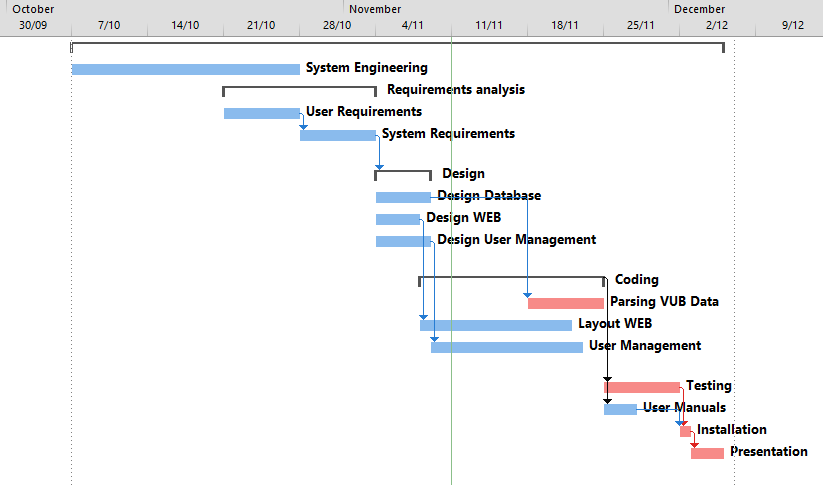
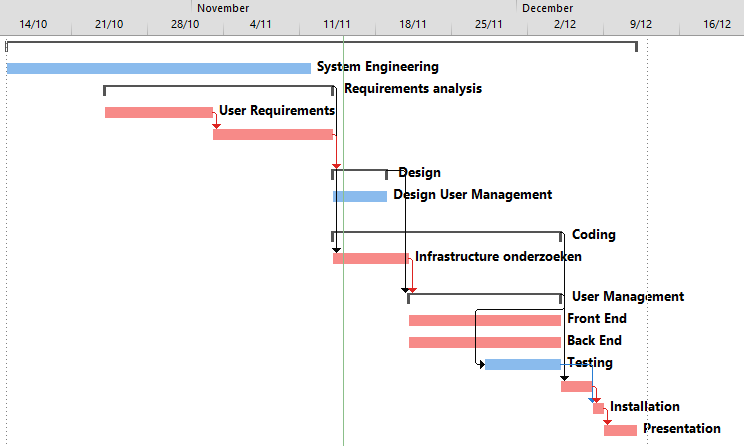
Afwerken SPMP.

Changed region(s): [[0.0, 0.0, 1.0, 0.991]]

diff --git a/SPMP/ManagerialProcess/ManagerialProcessPlans.tex b/SPMP/ManagerialProcess/ManagerialProcessPlans.tex
@@ -1,6 +1,9 @@
 \chapter{Management process}
 \section{Project start plan} \label{sec:ProjectStartPlan}
-In deze sectie bespreken we de verwachte kost van het project. Voor de kostberekening maken we gebruik van  Voor de kostberekening maken we gebruik van het COCOMO I model \cite{CocomoI}. Ondanks dat het COCOMO I model reeds verouderd is t.o.v. COCOMO II \cite{CocomoII}, verkiezen we toch COCOMO I. De reden hiervoor is dat COCOMO II afhant van veel inputparameters. Vermits we hiervoor weinig tot geen ervaring hebben, verkiezen we COCOMO I dat slechts afhangt van 2 inputparameters. Bij COCOMO I zijn de vrije parameters het project type en aantal lijnen code. Als type project moeten we kiezen tussen ``simple'', ``semidetached'' en ``embedded''. We kiezen hierin voor het type ``semidetached''. Dit weerspiegelt goed de huidige situatie van ons team. De omvang van ons team is aan de grote kant en er zijn veel onbekende factoren in dit project (zie ook \ref{sec:risicoManagementPlan}). We berekenen dan de effort $E$ uitgedrukt in persoonsmaanden (pm) als
+Voor het project management zal er gebruikt worden van Microsoft Project \cite{MicrosoftProject}. Een licentie valt gratis te verkrijgen via Microsoft Dreamspark for VUB Students \cite{DreamsparkVUB}. M.b.v. Microsoft Project zullen er Gantt charts gegenereerd worden. Voor Work Breakdown Structures zal er gebruik worden gemaaakt van WBS Chart Pro \cite{WBSChartPro}. Hiervan is een demo-versie verkrijgbaar die voldoende functionaliteit biedt. WBS Chart Pro kan op basis van een Microsoft Project file onmiddelijk een WBS genereren.
+\\
+\\
+In deze paragraaf bespreken we de verwachte kost van het project. Voor de kostberekening maken we gebruik van  Voor de kostberekening maken we gebruik van het COCOMO I model \cite{CocomoI}. Ondanks dat het COCOMO I model reeds verouderd is t.o.v. COCOMO II \cite{CocomoII}, verkiezen we toch COCOMO I. De reden hiervoor is dat COCOMO II afhant van veel inputparameters. Vermits we hiervoor weinig tot geen ervaring hebben, verkiezen we COCOMO I dat slechts afhangt van 2 inputparameters. Bij COCOMO I zijn de vrije parameters het project type en aantal lijnen code. Als type project moeten we kiezen tussen ``simple'', ``semidetached'' en ``embedded''. We kiezen hierin voor het type ``semidetached''. Dit weerspiegelt goed de huidige situatie van ons team. De omvang van ons team is aan de grote kant en er zijn veel onbekende factoren in dit project (zie ook \ref{sec:risicoManagementPlan}). We berekenen dan de effort $E$ uitgedrukt in persoonsmaanden (pm) als
 \begin{equation*}
 	E = a*KLOC^b
 \end{equation*}
@@ -25,7 +28,7 @@ Op basis van de Gantt-chart die zal opgesteld worden in paragraaf \ref{sec:workp
 \end{equation*}
 \section{Werk plan} \label{sec:workplan}
 \subsection{Activiteiten}
-Het project bestaat uit volgende activiteiten\footnote{In volgende versies van het SPMP komen hier nog verscheidene activiteiten bij.}, weergegeven als een work breakdown structure in figuur \ref{fig:workbreakdownstructure}.
+Het project bestaat uit volgende activiteiten\footnote{In volgende versies van het SPMP komen hier nog verscheidene activiteiten bij.}, weergegeven als een work breakdown structure in figuur \ref{fig:workbreakdownstructure}. De activiteiten in de WBS komen overeen met de gegroepeerde requirements die in het SRS-document en website te vinden zijn.
 \begin{figure} [H]
     \centering
     \includegraphics[width = \textwidth]{ManagerialProcess/WBSChart.png}
@@ -45,33 +48,31 @@ In tabel \ref{tab:ActivityDependenciesIteratie1} is een overzicht weergegeven va
 \begin{table} [H]
 	\centering
 	\caption{Activiteiten van de eerste iteratie en afhankelijkheden.}
-	\begin{tabular} {c|l|c|c}
+	\begin{tabular} {l|l|c|c}
 		Activiteit ID & Activiteit Naam & Tijdsduur (in dagen) & Afhankelijkheden \\
 		\hline
-		1 & System Engineering & 21 & \\
-		2 & Requirements Analysis & 14 & \\
-		2.1 & User Requirements & 7 & \\
-		2.2 & System Requirements & 7 & 2.1 \\
-		3 & Design & 14 & 2 \\
-		3.1 & Design Database & 5 & \\
-		3.2 & Design WEB & 4 & \\
-		3.3 & Design User Management & 5 & \\
-		4 & Coding & 14 & \\
-		4.1 & Coding Parsing VUB Data & 7 & 3.1, Release data dump \\
-		4.2 & Coding Layout WEB & 14 & 3.2 \\
-		4.3 & Coding User Management & 14 & 3.3 \\
-		5 & Testing & 7 & 4 \\
-		6 & User manuals & 3 & 4 \\
-		7 & Installation & 1 & 5,6 \\
-		8 & Presentation & 3 & 7	
+		1 	& System Engineering 		& 28 & \\
+		2 	& Requirements Analysis 	& 21 & \\
+		2.1 & User Requirements 		& 10 & \\
+		2.2 & System Requirements 		& 11 & 2.1 \\
+		3 	& Design 					& 5 & 2 \\
+		3.1 & Design User Management 	& 5 & \\
+		4 	& Coding 					& 21 & \\
+		4.1 & Infrastructure onderzoeken & 7 & 2\\
+		4.2 & User Management			& 14 & 3, 4.1  \\
+		4.2.1 & Frond End 		 		& 14 & \\
+		4.2.2 & Back End				& 14 & \\
+		5 	& Testing 					& 7 & 4.2 - 7 dagen \\
+		6 	& User manuals 				& 3 & 4 \\
+		7 	& Installation 				& 1 & 5,6 \\
+		8 	& Presentation 				& 3 & 7	
 	\end{tabular}
 	\label{tab:ActivityDependenciesIteratie1}
 \end{table}
 Op basis van tabel \ref{tab:ActivityDependenciesIteratie1} bekomen we de Gantt chart voor iteratie 1 weergegeven in figuur \ref{fig:GantChartIT1}. Het kritisch pad is weergegeven in het rood. Hierbij is nog rekening met extra constraints:
 \begin{itemize}
-	\item Het project is gestart op 7 oktober 2013.
-	\item De activiteit ``Requirements Analysis'' kan niet vroeger beginnen dan 21 oktober 2013.
-	\item De activiteit ``Parsing VUB Data'' kan niet vroeger beginnen dan 18 november 2013 (zie tabel \ref{tab:kalender}).
+	\item Het project is gestart op 15 oktober 2013.
+	\item De activiteit ``Requirements Analysis'' kan niet vroeger beginnen dan 24 oktober 2013.
 	\item De activiteit ``Installation'' mag niet later eindigen dan 13 december 2013 (zie tabel \ref{tab:kalender}).
 	\item De activiteit ``Presentation'' mag niet later eindigen dan 18 december 2013 (zie tabel \ref{tab:kalender}).
 \end{itemize}
@@ -81,7 +82,7 @@ Op basis van tabel \ref{tab:ActivityDependenciesIteratie1} bekomen we de Gantt c
 	\caption{Gantt chart voor iteratie 1.}
 	\label{fig:GantChartIT1}
 \end{figure}
-Het kritisch pad begint bij de activiteit ``Parsing VUB Data''.  Vermits de datadump van de VUB pas ter onze beschikking wordt gesteld op 18 november, kunnen we hier niet vroeger aan beginnen.
+Op figuur \ref{fig:GantChartIT1} is er te zien dat er nog enkele dagen marge zijn op het einde van iteratie 1. Het kritisch pad mag dus enkele dagen vertraging oplopen.
 %\subsection{Middelen}
 %This subclause of the SPMP shall provide a detailed itemization of the resources allocated to each major work activity in the project work breakdown structure. Resources shall include the numbers and required skill levels of personnel for each work activity. Resource allocation may include, as appropriate, personnel by skill level and factors such as computing resources, software tools, special testing and simulation facilities, and administrative support. A separate line item should be provided for each type of resource for each work activity. A summary of resource requirements for the various work activities should be collected from the work packages of the work breakdown structure and presented in tabular form.
 %Voor de design-activiteiten zal er gebruik worden gemaakt van een UML Designer \footnote{De specifieke tool die we gaan gebruiken is nog onder overleg.}. Het coderen zal gebeuren in Eclipse. 

diff --git a/SPMP/ProjectOrganization/ProjectOrganization.tex b/SPMP/ProjectOrganization/ProjectOrganization.tex
@@ -24,7 +24,13 @@ Voor dit project is er een team van 7 personen. De takenverdeling binnen dit tea
 	\label{tab:takenverdeling}
 \end{table}
 
-Communicatie binnen het team verloopt via de website \cite{portalWebsite}. Hier wordt een soort blog gebruikt door de teamleden (zie figuur ?) . Een teamlid kan een bericht plaatsen en achteraf kan op dit bericht gereageerd worden door andere teamleden. Verder wordt er gebruik gemaakt van de mailinglijst op wilma om de verschillende teamleden van een notificatie te voorzien bij de aanmaak van een nieuw bericht. 
+Communicatie binnen het team verloopt via de website \cite{portalWebsite}. Hier wordt een soort blog gebruikt door de teamleden. Een teamlid kan een bericht plaatsen en achteraf kan op dit bericht gereageerd worden door andere teamleden. Een voorbeeldinteractie is weergegeven in figuur \ref{fig:communicatieExample}. Verder wordt er gebruik gemaakt van de mailinglijst op wilma om de verschillende teamleden van een notificatie te voorzien bij de aanmaak van een nieuw bericht. 
+\begin{figure} [H]
+	\centering
+	\includegraphics[width = \textwidth]{ProjectOrganization/Communication.png}
+	\caption{Communicatie op de team website.}
+	\label{fig:communicatieExample}
+\end{figure}
 
 \section{Rollen en verantwoordelijkheden}
 Elk teamlid is verantwoordelijk voor een functie en reserve van een andere functie (zie tabel \ref{tab:takenverdeling}).Ook speelt elk teamlid een rol in de codering van het systeem. 
@@ -38,49 +44,70 @@ Hier volgt een gedetailleerd overzicht van deze functies:
 		\hline
 		Project Manager &  
 		\begin{itemize}
+		\item Verantwoordelijkheid over SPMP
 		\item Opvolging van managers
 		\item Zorgt ervoor dat deadlines binnen het team gerespecteerd worden
 		\item Ingrijpen waar nodig
 		\end{itemize}\\
+		\hline
 		Configuration Manager &
 		\begin{itemize}
+		\item Verantwoordelijkheid over SCMP (onderdeel van SPMP)
 		\item Keuze software en procedures
 		\item Controle van gebruik van software en instellingen.
 		\end{itemize}\\
+		\hline
 		Database Manager &
 		\begin{itemize}
 		\item Onderhoud en controle database
 		\item Onderscheid maken tussen en beheren van test en officiële database
 		\end{itemize}\\
+		\hline
 		Quality Assurance Manager &
 		\begin{itemize}
+		\item Verantwoordelijkheid over SQAP (onderdeel van SPMP)
+		\item Verantwoordelijkheid over STD
 		\item Controle en correctie van nauwkeurigheid en styling van code en documenten
 		\item Algemene testing van software
 		\end{itemize}\\
+		\hline
 		Requirements Manager &
 		\begin{itemize}
+		\item Verantwoordelijkheid over SRS
 		\item Controle van uitvoering van requirements
 		\item Verificatie van uitgewerkte requirements
 		\end{itemize}\\
+		\hline
 		Design Manager &
 		\begin{itemize}
+		\item Verantwoordelijkheid over SDD
 		\item modelleren en architectuur bepalen van het systeem
-		\end{itemize}\\
+		\end{itemize}
+	\end{tabular}
+	\label{tab:functies}
+\end{table}
+\begin{table} [H]
+	\centering
+	\caption{Functies (vervolg).}
+	\begin{tabular} {l | p{10cm}}
+		Functie & Verantwoordelijkheden \\
+		\hline
 		Implementation Manager &
 		\begin{itemize}
 		\item Verdelen van system requirements onder de developers
 		\item Controle van de progressie van de code
 		\item Controle van de uitvoering van het design
 		\end{itemize}\\
+		\hline
 		Webmaster &
 		\begin{itemize}
 		\item Onderhoud teamwebsite
 		\item Onderhoud projectwebsite (die dat de gebruikers van het systeem gebruiken).
 		\end{itemize}\\
+		\hline
 		Secretaris &
 		\begin{itemize}
 		\item Verslagen van vergaderingen bijhouden
 		\end{itemize}\\
 	\end{tabular}
-	\label{tab:functies}
 \end{table}

diff --git a/SPMP/References.tex b/SPMP/References.tex
@@ -15,7 +15,9 @@
     
     \bibitem{MicrosoftProject} \emph{Microsft Project.} \url{http://office.microsoft.com/nl-be/project/}
     
-    %\bibitem{DreamsparkVUB} \emph{Microsoft DreamSpark for VUB-Engineering Students.} \url{http://e5.onthehub.com/WebStore/Welcome.aspx?ws=4ec25e81-649b-e011-969d-0030487d8897&vsro=8}
+    \bibitem{DreamsparkVUB} \emph{Microsoft DreamSpark for VUB-Engineering Students.} \url{http://e5.onthehub.com/WebStore/Welcome.aspx?ws=4ec25e81-649b-e011-969d-0030487d8897&vsro=8}
+    
+    \bibitem{WBSChartPro} \emph{WBS Chart Pro.} \url{http://www.criticaltools.com/wbsmain.htm}
     
     \bibitem{EclipseMetricsPlugin} \emph{Eclipse Metrics Plugin.} \url{http://eclipse-metrics.sourceforge.net/}
     

diff --git a/SPMP/main.tex b/SPMP/main.tex
@@ -1,5 +1,6 @@
 \documentclass{book}
 \usepackage[utf8]{inputenc}
+\usepackage[bf]{caption}
 \usepackage{fullpage}
 \usepackage{graphicx}
 \usepackage{sansmath}
